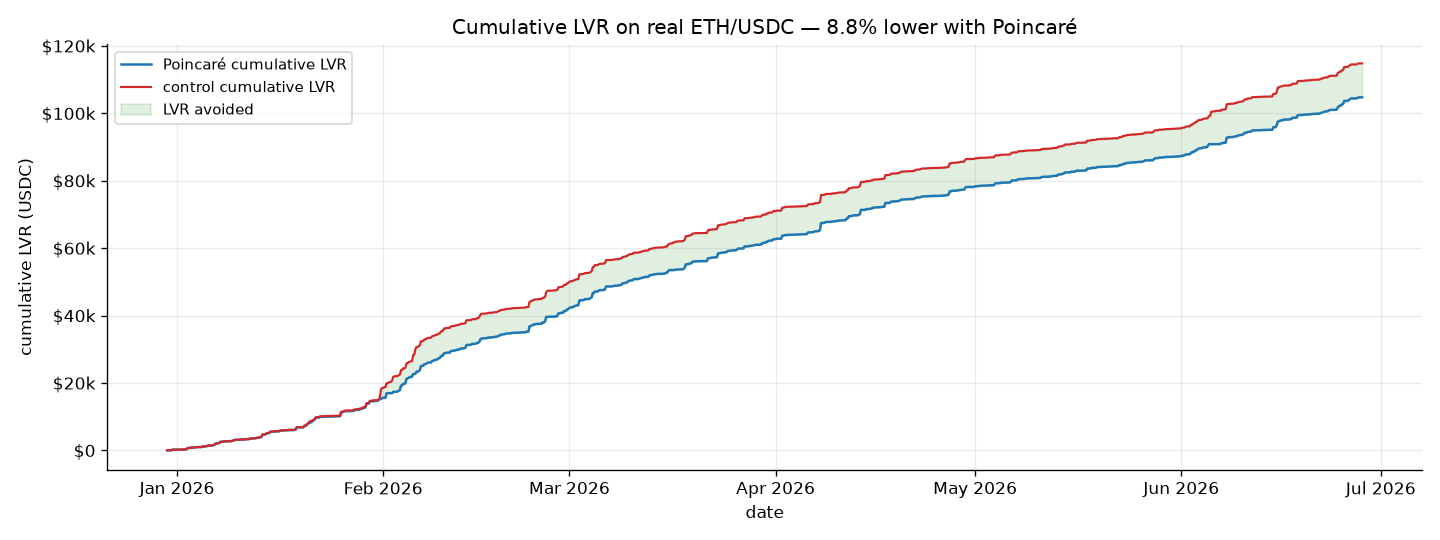
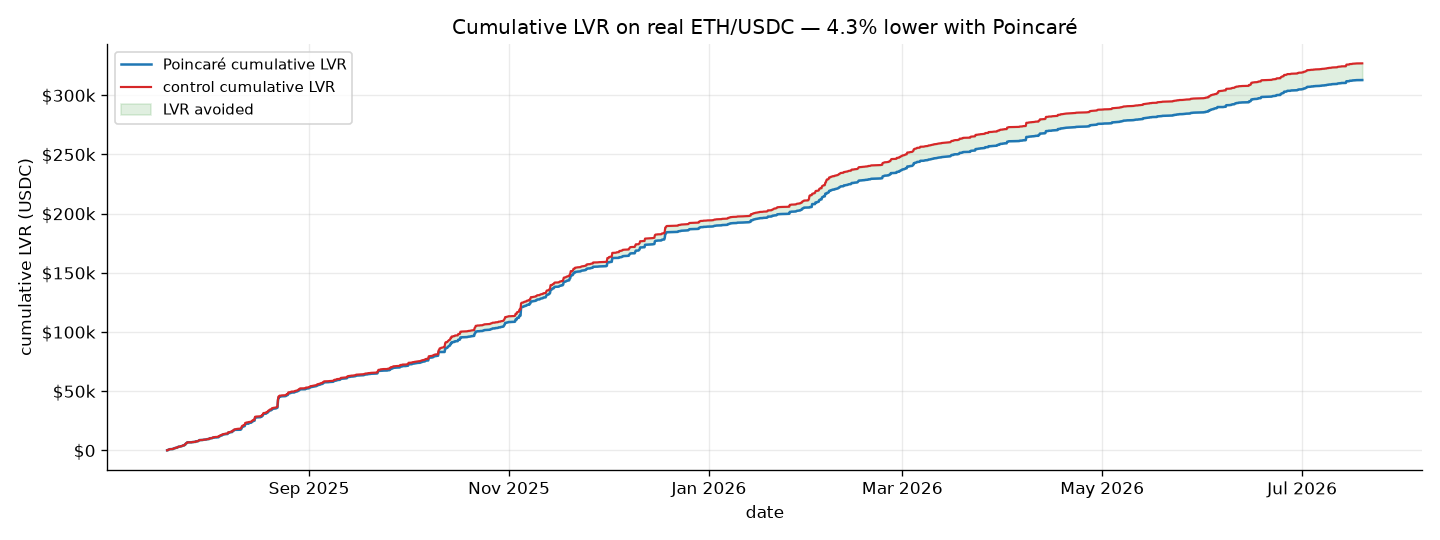
docs: refresh real-data study to the 12-month window
README 9.1 and SIMULATION.md now report the 2025-07 -> 2026-07 year:
cum LVR 312,815 vs 326,924 USDC (-4.3%), final LP advantage +$25,282,
noise tax $8,982; graphs regenerated.

diff --git a/analysis/simulation/SIMULATION.md b/analysis/simulation/SIMULATION.md
@@ -103,34 +103,36 @@ Graphs: `sim_lpvalue.png` (headline), `sim_lvr.png`, `sim_price.png`, `sim_kappa
 
 ---
 
-## Real-data run: 6 months of actual ETH/USDC
+## Real-data run: 12 months of actual ETH/USDC
 
 The same comparative engine, but `fair` is driven by **real Binance ETHUSDC 4h closes** instead of
 a synthetic path. Test: `test/sim/ForkRealData.t.sol`. Reproduce:
 
 ```
-python analysis/simulation/fetch_realdata.py        # pulls ~6 months of ETHUSDC 4h candles
+python analysis/simulation/fetch_realdata.py        # pulls 12 months of ETHUSDC 4h candles (DAYS env)
 FOUNDRY_PROFILE=sim forge test --match-path test/sim/ForkRealData.t.sol -vv
 python analysis/simulation/plot_realdata.py          # -> public/sim/real/
 ```
 
-**Window:** 2025-12-30 → 2026-06-28, 1,080 candles. ETH fell **$2,987 → $1,568** (≈ −47%, with a
-$3,367 high), a genuine multi-leg bear market with rallies.
+**Window:** 2025-07-19 → 2026-07-19, 2,190 candles. ETH went **$3,554 → $1,868** through several
+distinct regimes: a rally to a **$4,833** peak, a multi-leg bear with the February crash, and a
+June leg-down.
 
 | metric | POINCARÉ | CONTROL | result |
 |---|---:|---:|---|
-| Cumulative LVR | 104,721 USDC | 114,807 USDC | **−8.8%** |
-| **Final LP value advantage** | | | **+14,697 USDC** |
-| Noise-flow tax (cost to with-trend benign flow) | | | 3,254 USDC |
+| Cumulative LVR | 312,815 USDC | 326,924 USDC | **−4.3%** |
+| **Final LP value advantage** | | | **+25,282 USDC** |
+| Noise-flow tax (cost to with-trend benign flow) | | | 8,982 USDC |
 
 ![Real ETH/USDC LP value](../../public/sim/real/real_lpvalue.png)
 
-**The honest read:** the advantage is **flat through the choppy January**, **jumps at the February
-crash**, holds through the chop, and **jumps again at the June leg-down**, as the detector engaged on
-the two real sustained downtrends and stayed neutral in chop, ending **+$15k** for Poincaré LPs on
-a ~$6M pool. The reduction (8.8%) is smaller than on the synthetic stress path (29.7%) precisely
-because real markets are noisier with fewer clean trends, so the conservative detector engages less,
-so it helps less, **but it never hurts** (LVR ≤ control held the whole way; assertion enforced).
+**The honest read:** the advantage is **flat through chop and jumps at the real sustained trends**
+(the February crash and the June leg-down), as the detector engaged there and stayed neutral
+otherwise, ending **+$25k** for Poincaré LPs on a ~$6M pool. The reduction (4.3% over the full
+year; 8.8% over the trend-heavy back half) is smaller than on the synthetic stress path (29.7%)
+precisely because real markets are noisier with fewer clean trends, so the conservative detector
+engages less, so it helps less, **but it never hurts** (LVR ≤ control held the whole way;
+assertion enforced).
 This is the expected, defensible behaviour: protection concentrated on the real directional moves
 that actually drain LPs, nothing during chop. Graphs in `public/sim/real/`: `real_lpvalue.png`,
 `real_lvr.png`, `real_price_kappa.png`, `real_months.png`.

diff --git a/README.md b/README.md
@@ -347,25 +347,27 @@ bleed the most. Full methodology, per-scenario breakdown, the two order books, a
 `FOUNDRY_PROFILE=sim forge test --match-path test/sim/ForkSimulation.t.sol` then
 `python analysis/simulation/plot.py`.
 
-### 9.1 Against real market data: 6 months of ETH/USDC
+### 9.1 Against real market data: 12 months of ETH/USDC
 
-The same comparison, but driven by **real Binance ETHUSDC 4h closes** (2025-12-30 → 2026-06-28,
-1,080 candles) instead of a synthetic path. Over this window ETH fell **$2,987 → $1,568** (≈ −47%,
-a genuine multi-leg bear market with rallies).
+The same comparison, but driven by **real Binance ETHUSDC 4h closes** (2025-07-19 → 2026-07-19,
+2,190 candles) instead of a synthetic path. Over this window ETH went **$3,554 → $1,868** through
+several distinct regimes: a rally to a **$4,833** peak, a multi-leg bear with the February crash,
+and a June leg-down.
 
 ![Real ETH/USDC LP value: Poincaré vs constant-product](public/sim/real/real_lpvalue.png)
 
 | metric | POINCARÉ | CONTROL | result |
 |---|---:|---:|---|
-| Cumulative LVR | 104,721 USDC | 114,807 USDC | **−8.8%** |
-| **Final LP value advantage** | | | **+$14,697** |
+| Cumulative LVR | 312,815 USDC | 326,924 USDC | **−4.3%** |
+| **Final LP value advantage** | | | **+$25,282** |
 
-The advantage is **flat through choppy January, jumps at the February crash, and jumps again at the
-June leg-down**, as the detector engaged on the two real sustained downtrends and stayed neutral in
-chop. The reduction (8.8%) is smaller than on the synthetic stress path (29.7%) precisely because
-real markets are noisier with fewer clean trends, so the conservative detector helps less, **but it
-never hurts** (LVR ≤ control throughout, asserted). With params merely sensible-not-optimised for
-4h ETH; pair-specific calibration would raise the captured fraction. Reproduce:
+The advantage is **flat through chop and jumps at the real sustained trends** (the February crash
+and the June leg-down), as the detector engaged there and stayed neutral otherwise. The reduction
+(4.3% over the full year, 8.8% over the trend-heavy back half) is smaller than on the synthetic
+stress path (29.7%) precisely because real markets are noisier with fewer clean trends, so the
+conservative detector helps less, **but it never hurts** (LVR ≤ control throughout, asserted).
+With params merely sensible-not-optimised for 4h ETH; pair-specific calibration would raise the
+captured fraction. Reproduce:
 `python analysis/simulation/fetch_realdata.py` →
 `FOUNDRY_PROFILE=sim forge test --match-path test/sim/ForkRealData.t.sol` →
 `python analysis/simulation/plot_realdata.py`.
